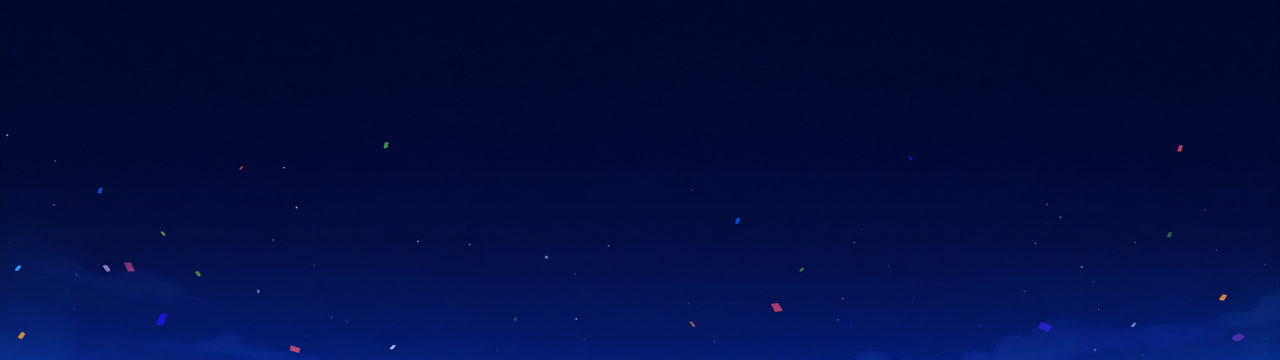
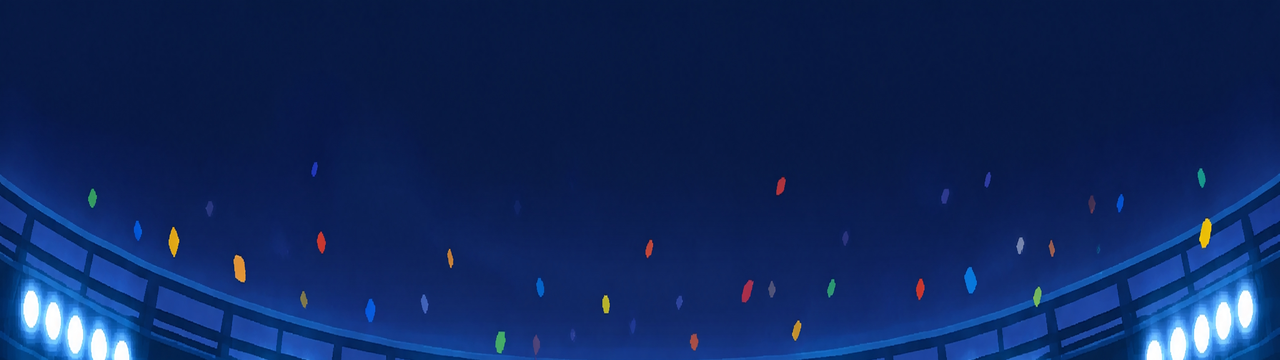
Replace stadium BG artwork with new World Cup 2026 panorama
Replaces bg_sky.png and bg_stadium.png with new cleaner artwork
provided by the user (3840x2160 source):
- Sky band: stadium dome + brighter floodlights + colour confetti
- Stadium band: 16 national-team flag row, pennant bunting, ad banners
  ('ALL LEGENDS UNITE' / 'ONE TEAM. ONE DREAM.' / 'FOR THE CUP!' /
  'FEEL THE PASSION' / 'PLAY. RUN. WIN.' / 'WORLD CUP 2026'), denser
  crowd with camera-flash sparkles, perimeter board with stadium logos.

bg_ground.png intentionally unchanged: the new image has stadium-floor
blue at the bottom (no dirt/grass), but the game's runner asset and
player physics expect the existing brown-dirt + green-grass surface.

Slice strategy (PIL, LANCZOS):
- bg_sky.png    = crop (0,    0, 3840,  460) -> 1280x360 RGBA
- bg_stadium.png = crop (0,  230, 3840, 1820) -> 1600x360 RGBA
- bg_ground.png  = untouched

Cache-bust bumped from ?v=v3 -> ?v=v4 in PreloadScene.ts so Vercel
serves the new files immediately on hard refresh.

diff --git a/app/game/scenes/PreloadScene.ts b/app/game/scenes/PreloadScene.ts
@@ -50,7 +50,7 @@ export class PreloadScene extends Phaser.Scene {
     });
     this.load.on("complete", () => title.setText("BUILDING SCENE..."));
 
-    const v = "v3";
+    const v = "v4";
 
     // --- Backgrounds (used as TileSprites, loaded at native size) ---
     this.load.image("bg-sky", `/assets/user/bg_sky.png?v=${v}`);
